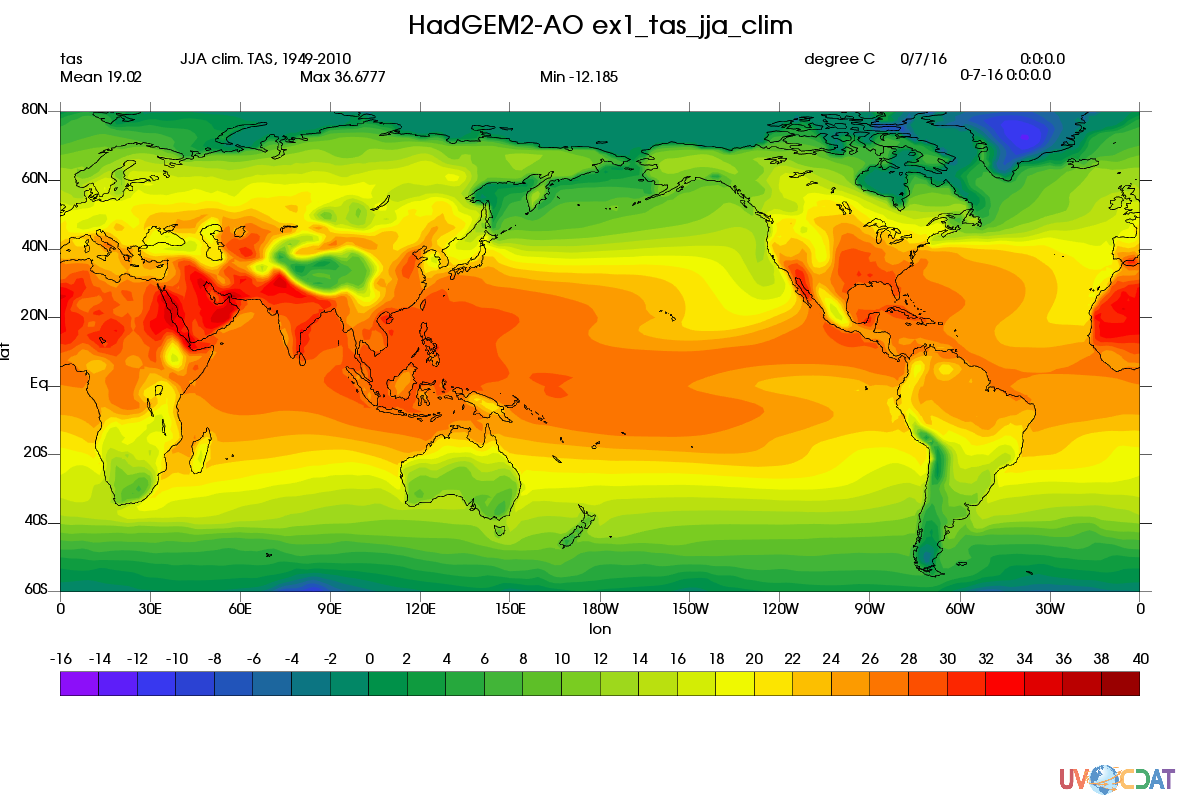
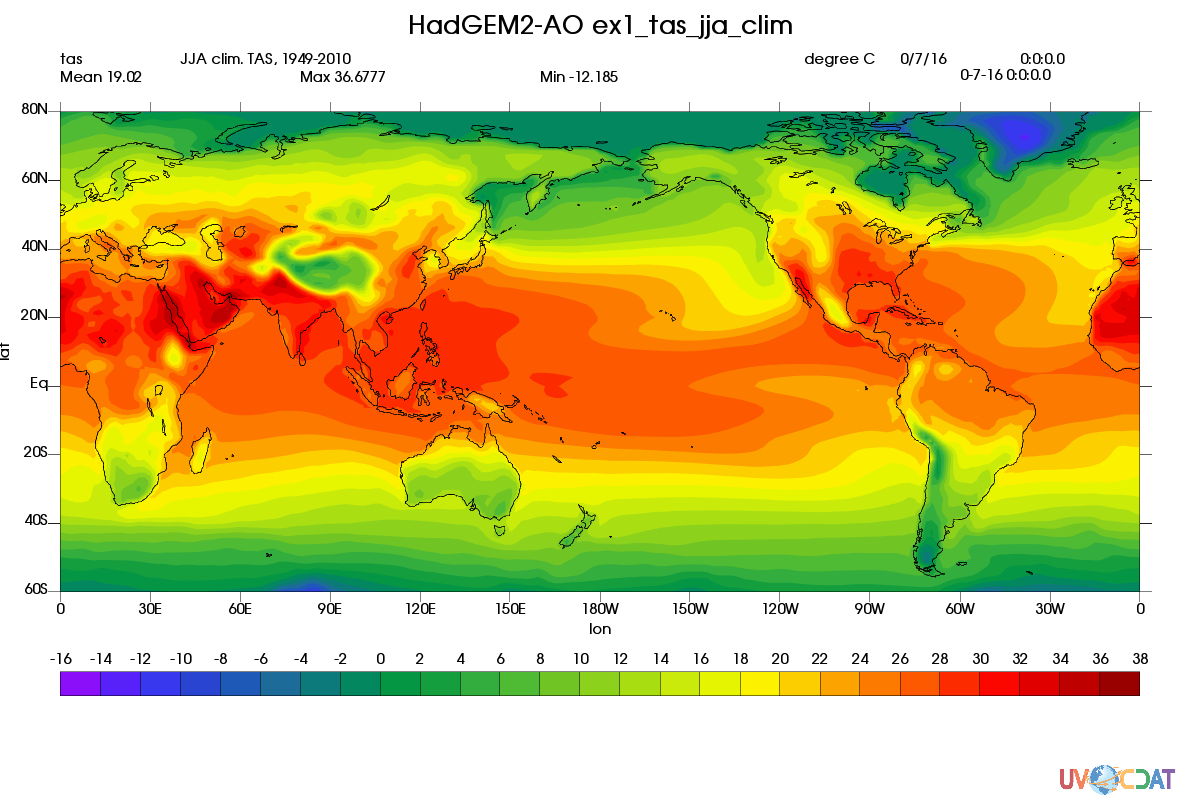
code clean up

Changed region(s): [[0.0308, 0.25, 0.9558, 0.5938], [0.37, 0.8125, 0.9558, 0.875], [0.0617, 0.8125, 0.3392, 0.875]]

diff --git a/example_200mb_wnd_ts_gph_djf_clim.py b/example_200mb_wnd_ts_gph_djf_clim.py
@@ -1,7 +1,7 @@
 ################################################################################################# 
-# This python script plots climatologyt of DJF, at 200 hPa, obtained from one single CMIP5 model
+# This Python script plots DJF climatology at 200 hPa level, which given from one of CMIP5 models
 # 
-# Ji-Woo Lee (jwlee@llnl.gov), April 2016
+# Ji-Woo Lee, LLNL, August 2016
 ################################################################################################# 
 
 import cdms2 as cdms
@@ -10,9 +10,7 @@ import cdtime
 import vcs
 from cdms2 import MV
 
-#
-# Define function to get DJF climatology
-#
+# Define function to get DJF climatology ---
 def getdjf(var):
     var_djf = cdutil.DJF.climatology(d(time=(start_time,end_time)))
     var_djf.units = var.units
@@ -21,66 +19,54 @@ def getdjf(var):
     var_djf.model = 'HadGEM2-AO'
     return(var_djf)
 
-#
-# open file from local -- DATA was downloaded from ESGF
-#
+#================================================================================================
+# Data
+#------------------------------------------------------------------------------------------------
+# List of variables to plot ---
 vars = ['zg','ta','ua','va']
 nvar = len(vars)
 
+# Time period ---
 start_year = 1949
 end_year = 2010
 start_time = cdtime.comptime(start_year)
 end_time = cdtime.comptime(end_year)
 
+# Dictionary for variables ---
 data = {}
 
 for var in vars[0:nvar]:
-    odir = '/cmip5_css02/data/cmip5/output1/NIMR-KMA/HadGEM2-AO/historical/mon/atmos/Amon/r1i1p1/'+var+'/1/' # Put your data directory here
-    nc = var+'_Amon_HadGEM2-AO_historical_r1i1p1_186001-200512.nc'
-    f = cdms.open(odir+nc)
+  print var
 
-    #
-    # load variable
-    #
-    d = f(var,lev=20000)
+  # open file from local -- DATA was downloaded from ESGF
+  odir = '/cmip5_css02/data/cmip5/output1/NIMR-KMA/HadGEM2-AO/historical/mon/atmos/Amon/r1i1p1/'+var+'/1/' # Put your data directory here
+  nc = var+'_Amon_HadGEM2-AO_historical_r1i1p1_186001-200512.nc'
+  f = cdms.open(odir+nc)
 
-    #
-    # climatology calculation
-    #
-    data[var] = getdjf(d)
+  # Load variable ---
+  d = f(var,lev=20000)
 
-    print var
+  # Climatology calculation
+  data[var] = getdjf(d)
 
-    if(var=='zg'):
-        lon = d.getLongitude()
-        lat = d.getLatitude()
-    f.close()
-
-#
-# Create canvas
-#
+#================================================================================================
+# Plot
+#------------------------------------------------------------------------------------------------
+# Create canvas ---
 canvas = vcs.init(geometry=(1200,800))
 canvas.open()
 template = canvas.createtemplate()
 template.blank(["title","mean","min","max","dataname","crdate","crtime","units"]) ## Turn off additional information
 #template.list() ## This commend could give list of items 
 
-#
-# Set ploting range
-#
+# Set ploting range ---
 lat1=-60
 lat2=80
 lon1=0
 lon2=360
 
-#
-# Calculate wind speed
-#
+# Wind speed ---
 data['wsd'] = MV.sqrt(data['ua']**2+data['va']**2)
-
-#
-# Vorticity field 
-#
 iso = canvas.createisofill()
 iso.datawc_x1 = lon1
 iso.datawc_x2 = lon2
@@ -89,9 +75,7 @@ iso.datawc_y2 = lat2
 canvas.setcolormap("blue_to_orange")
 canvas.plot(data['wsd'],iso,template)
 
-#
-# Geopotential height field
-#
+# Geopotential height field ---
 lines1 = vcs.createisoline()
 lines1.datawc_x1 = lon1
 lines1.datawc_x2 = lon2
@@ -103,9 +87,7 @@ lines1.label = 'y'
 lines1.textcolors=['black']
 canvas.plot(data['zg'],lines1,template)
 
-#
-# T field
-#
+# T field ---
 lines2 = vcs.createisoline()
 lines2.datawc_x1 = lon1
 lines2.datawc_x2 = lon2
@@ -118,9 +100,7 @@ lines2.label = 'y'
 lines2.textcolors=['red']
 canvas.plot(data['ta'],lines2,template)
 
-#
-# Plot wind field (vector)
-#
+# Plot wind field (vector) ---
 vec = vcs.createvector()
 ua2 = data['ua'][...,::3,::3] ## Resample U field to reduce vector density to half
 va2 = data['va'][...,::3,::3] ## Resample V filed to reduce vector density to half
@@ -130,9 +110,7 @@ vec.datawc_y1 = lat1
 vec.datawc_y2 = lat2
 canvas.plot(ua2,va2,vec,template)
 
-#
-# Set title
-#
+# Set title ---
 plot_title = vcs.createtext()
 plot_title.x = .5
 plot_title.y = .98
@@ -143,7 +121,5 @@ plot_title.color="black"
 plot_title.string = data['zg'].model+', DJF mean, 200 hPa'
 canvas.plot(plot_title)
 
-#
-# Drop output as image file
-#
+# Save output as image file ---
 canvas.png("example_200mb_wnd_ts_gph_djf_clim")

diff --git a/example_sfc_tas_jja_clim.py b/example_sfc_tas_jja_clim.py
@@ -1,70 +1,58 @@
+################################################################################################# 
+# This Python script plots JJA climatology at surface level, which given from one of CMIP5 models
 # 
-# This python script plots climatologyt of JJA temperature obtained from one single CMIP5 model
-#
-
+# Ji-Woo Lee, LLNL, August 2016
+################################################################################################# 
 import cdms2 as cdms
 import cdutil
 import cdtime
 import vcs
 
-#
+#================================================================================================
+# Data
+#------------------------------------------------------------------------------------------------
 # open file from local -- DATA was downloaded from ESGF
-#
 odir = '/cmip5_css02/data/cmip5/output1/NIMR-KMA/HadGEM2-AO/historical/mon/atmos/Amon/r1i1p1/tas/1/' # Put your data directory here
 nc = 'tas_Amon_HadGEM2-AO_historical_r1i1p1_186001-200512.nc'
 f = cdms.open(odir+nc)
 
-#Below is for Opendap usage
-#opendap = 'http://aims3.llnl.gov/thredds/dodsC/cmip5_css02_data/cmip5/output1/NIMR-KMA/HadGEM2-AO/historical/mon/atmos/Amon/r1i1p1/tas/1/tas_Amon_HadGEM2-AO_historical_r1i1p1_186001-200512.nc'
-#f = cdms.open(opendap)
-
-#
-# load variable
-#
+# Load variable ---
 d = f('tas',latitude=(-60,80),longitude=(0,360))-273.15
 d.units='degree C'
 
-#
-# climatology calculation
-#
+# Time period for climatology calculation ---
 start_year = 1949
 end_year = 2010
 
 start_time = cdtime.comptime(start_year)
 end_time =cdtime.comptime(end_year)
 
+# Calculate JJA seasonal climatology ---
 d_jja = cdutil.JJA.climatology(d(time=(start_time,end_time)))
 d_jja.units = d.units
 d_jja.long_name = 'JJA clim. TAS, '+str(start_year)+'-'+str(end_year)
 d_jja.id = 'tas'
 d_jja.model = 'HadGEM2-AO'
 
-#
-# Create canvas
-#
+#================================================================================================
+# Plot
+#------------------------------------------------------------------------------------------------
+# Create canvas ---
 canvas = vcs.init(geometry=(1200,800))
 canvas.open()
 
-#
-# Set plot type
-#
+# Set plot type ---
 iso = canvas.createisofill()
 
-#
-# Color setup
-#
-levs = [-16, -14, -12, -10, -8, -6, -4, -2, 0, 2, 4, 6, 8, 10, 12 , 14, 16, 18, 20, 22, 24, 26, 28, 30, 32, 34, 36, 38, 40]
+# Color setup ---
+levs = range(-16,40,2) # [-16, -14, -12, -10, -8, -6, -4, -2, 0, 2, 4, 6, 8, 10, 12, 14, 16, 18, 20, 22, 24, 26, 28, 30, 32, 34, 36, 38]
 iso.levels = levs
 canvas.setcolormap("rainbow")
 
-# 
-# Plot
-#
+# Plot ---
 canvas.plot(d_jja,iso)
 
-#
-# Set title
-#
+# Set title ---
 plot_title = vcs.createtext()
 plot_title.x = .5
 plot_title.y = .98
@@ -75,7 +63,5 @@ plot_title.color="black"
 plot_title.string = d_jja.model+' '+'ex1_tas_jja_clim'
 canvas.plot(plot_title)
 
-#
 # Drop output as image file
-#
 canvas.png("example_sfc_tas_jja_clim")

diff --git a/example_sfc_pr_jja_clim.py b/example_sfc_pr_jja_clim.py
@@ -1,54 +1,51 @@
+################################################################################################# 
+# This Python script plots JJA climatology at surface level, which given from one of CMIP5 models
 # 
-# This python script plots climatologyt of JJA precipitation obtained from one single CMIP5 model
-#
+# Ji-Woo Lee, LLNL, August 2016
+################################################################################################# 
 import cdms2 as cdms
 import cdutil
 import cdtime
 import vcs
 
-#
+#================================================================================================
+# Data
+#------------------------------------------------------------------------------------------------
 # open file from local -- DATA was downloaded from ESGF
-#
 odir = '/cmip5_css02/data/cmip5/output1/NIMR-KMA/HadGEM2-AO/historical/mon/atmos/Amon/r1i1p1/pr/1/' # Put your data directory here
 nc = 'pr_Amon_HadGEM2-AO_historical_r1i1p1_186001-200512.nc'
 f = cdms.open(odir+nc)
 
-#
-# load variable
-#
-d = f('pr',longitude=(-180,180))*86400.
+# Load variable ---
+d = f('pr',longitude=(-180,180))*86400. # kg/m2/s1 to mm/day
 d.units='mm/day'
 
-#
-# climatology calculation
-#
+# Time period for climatology calculation ---
 start_year = 1949
 end_year = 2010
 
 start_time = cdtime.comptime(start_year)
 end_time =cdtime.comptime(end_year)
 
+# Calculate JJA seasonal climatology ---
 d_jja = cdutil.JJA.climatology(d(time=(start_time,end_time)))
 d_jja.units = 'mm/day'
 d_jja.long_name = 'JJA clim. precip., '+str(start_year)+'-'+str(end_year)
 d_jja.id = 'pr'
 d_jja.model = 'HadGEM2-AO'
 
-#
-# Create canvas
-#
+#================================================================================================
+# Plot
+#------------------------------------------------------------------------------------------------
+# Create canvas ---
 canvas = vcs.init(geometry=(1200,800))
 canvas.open()
 
-#
-# Set plot type
-#
+# Set plot type ---
 iso = canvas.createisofill()
 
-#
-# Color setup
-#
-levs = [3, 6, 9, 12, 15, 18, 21, 24, 27, 30]
+# Color setup ---
+levs = range(3,33,3) # [3, 6, 9, 12, 15, 18, 21, 24, 27, 30]
 iso.levels = levs
 iso.ext_2 ="y"
 
@@ -58,14 +55,10 @@ for i in range(255):
   cmap.setcolorcell(i, r, g, b, 50) # Transparency: 0-100
 canvas.setcolormap(cmap)
 
-# 
-# Plot
-#
+# Plot ---
 canvas.plot(d_jja,iso)
 
-#
-# Set title
-#
+# Set title ---
 plot_title = vcs.createtext()
 plot_title.x = .5
 plot_title.y = .98
@@ -76,7 +69,5 @@ plot_title.color="black"
 plot_title.string = d_jja.model+' '+'ex2_pr_jja_clim'
 canvas.plot(plot_title)
 
-#
-# Drop output as image file
-#
+# Drop output as image file ---
 canvas.png("example_sfc_pr_jja_clim")

diff --git a/example_500mb_wnd_ts_gph_jja_clim.py b/example_500mb_wnd_ts_gph_jja_clim.py
@@ -1,7 +1,7 @@
 ################################################################################################# 
-# This Python script plots JJA climatology at 850 hPa level, which given from one of CMIP5 models
+# This Python script plots JJA climatology at 500 hPa level, which given from one of CMIP5 models
 # 
-# Ji-Woo Lee (jwlee@llnl.gov), August 2016
+# Ji-Woo Lee, LLNL, August 2016
 ################################################################################################# 
 
 import cdms2 as cdms

diff --git a/example_850mb_rh_ts_gph_jja_clim.py b/example_850mb_rh_ts_gph_jja_clim.py
@@ -1,7 +1,7 @@
 ################################################################################################# 
 # This Python script plots JJA climatology at 850 hPa level, which given from one of CMIP5 models
 # 
-# Ji-Woo Lee (jwlee@llnl.gov), August 2016
+# Ji-Woo Lee, LLNL, August 2016
 ################################################################################################# 
 
 import cdms2 as cdms

diff --git a/README.md b/README.md
@@ -1,1 +1,7 @@
 # UV-CDAT_scientific_examples
+
+Scientific examples for UV-CDAT usage
+
+![Alt text](./example_sfc_pr_jja_clim.png?raw=true "Seasonal Precipitation Climatology")
+
+![Alt text](./example_sfc_pr_jja_clim.png?raw=true "Seasonal Temperature Climatology")
